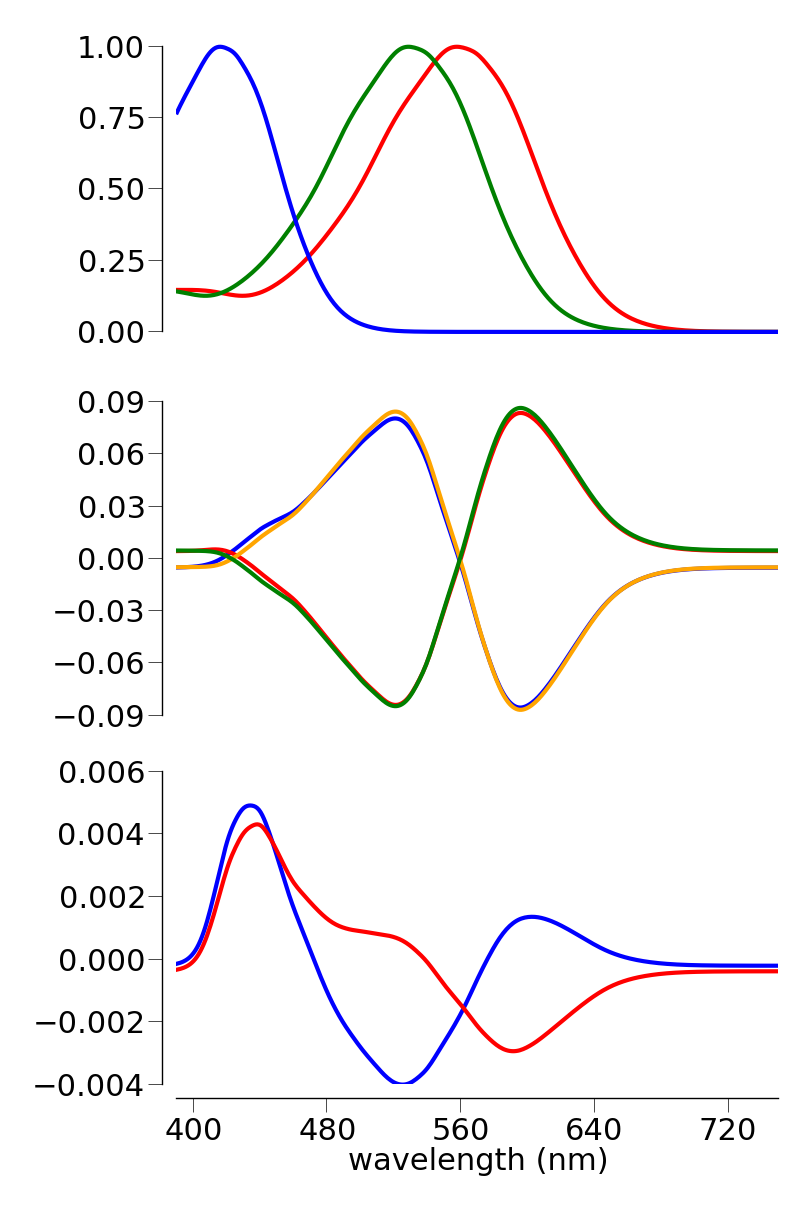
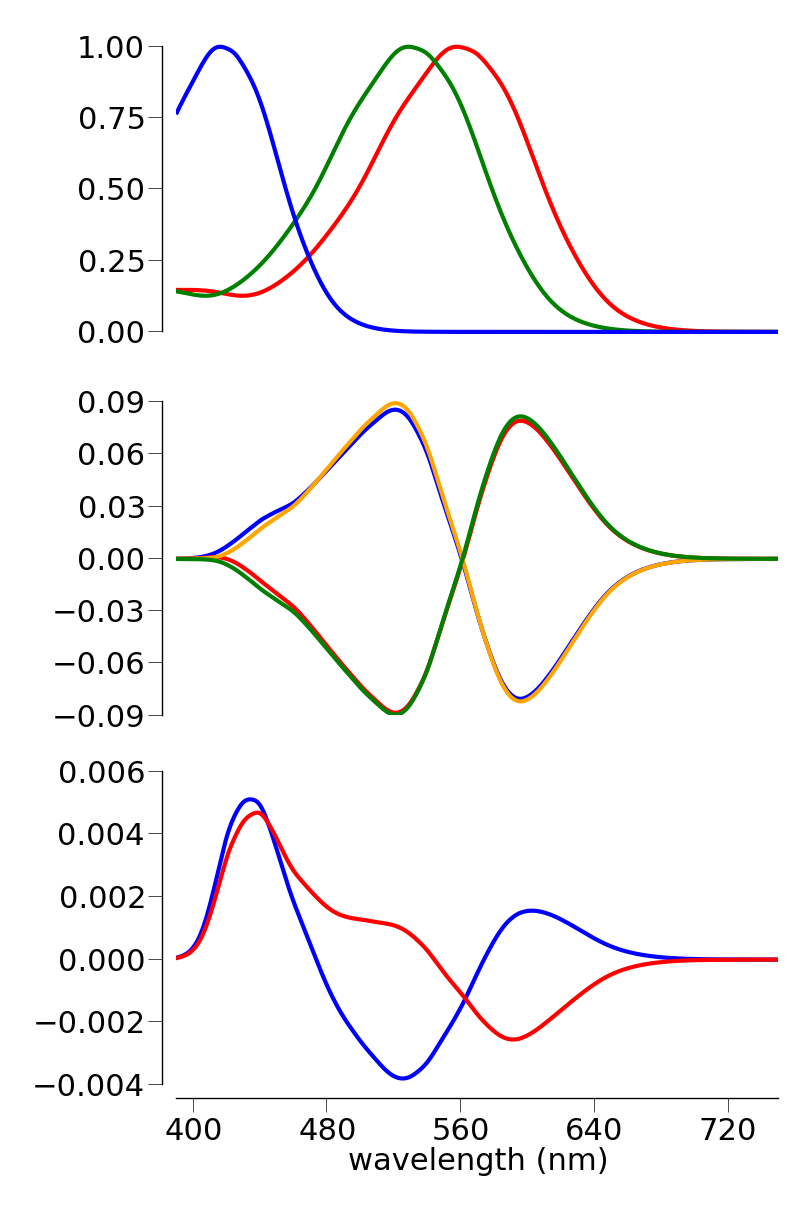
removed normalization

diff --git a/colorModel.py b/colorModel.py
@@ -75,19 +75,15 @@ class colorModel():
 
         smVl = ((const['Q1'] * (const['S'] * S_cones + (1. - const['S'])
                  * M_cones) - (1. - const['Q1']) * L_cones) / lensMacula)
-        smVl = (smVl) - np.mean(smVl)
 
         slVm = ((const['Q2'] * (const['S'] * S_cones + (1. - const['S'])
          * L_cones) - (1. - const['Q2']) * M_cones) / lensMacula)
-        slVm = slVm - np.mean(slVm)
 
         mVl = ((const['Q3'] * M_cones) - ((1. - const['Q3']) *
                  L_cones)) / lensMacula
-        mVl = mVl - np.mean(mVl)
 
         lVm = ((const['Q4'] * L_cones) - ((1. - const['Q4'])
                 * M_cones)) / lensMacula
-        lVm = lVm - np.mean(lVm)
 
         self.SecondStage = {
             'lambdas': self.FirstStage['lambdas'],
@@ -108,6 +104,10 @@ class colorModel():
             'redGreen': redGreen,
             'blueYellow': blueYellow,
             }
+
+    #def findChannel(self):
+    #    fun1 = lambda q1, s: (q1 * (s * S_cones + (1 - s) * M_cones) -
+    #                    (1 - q1) * L_cones) / lensMacula
 
     def getStockmanFilter(self):
 
